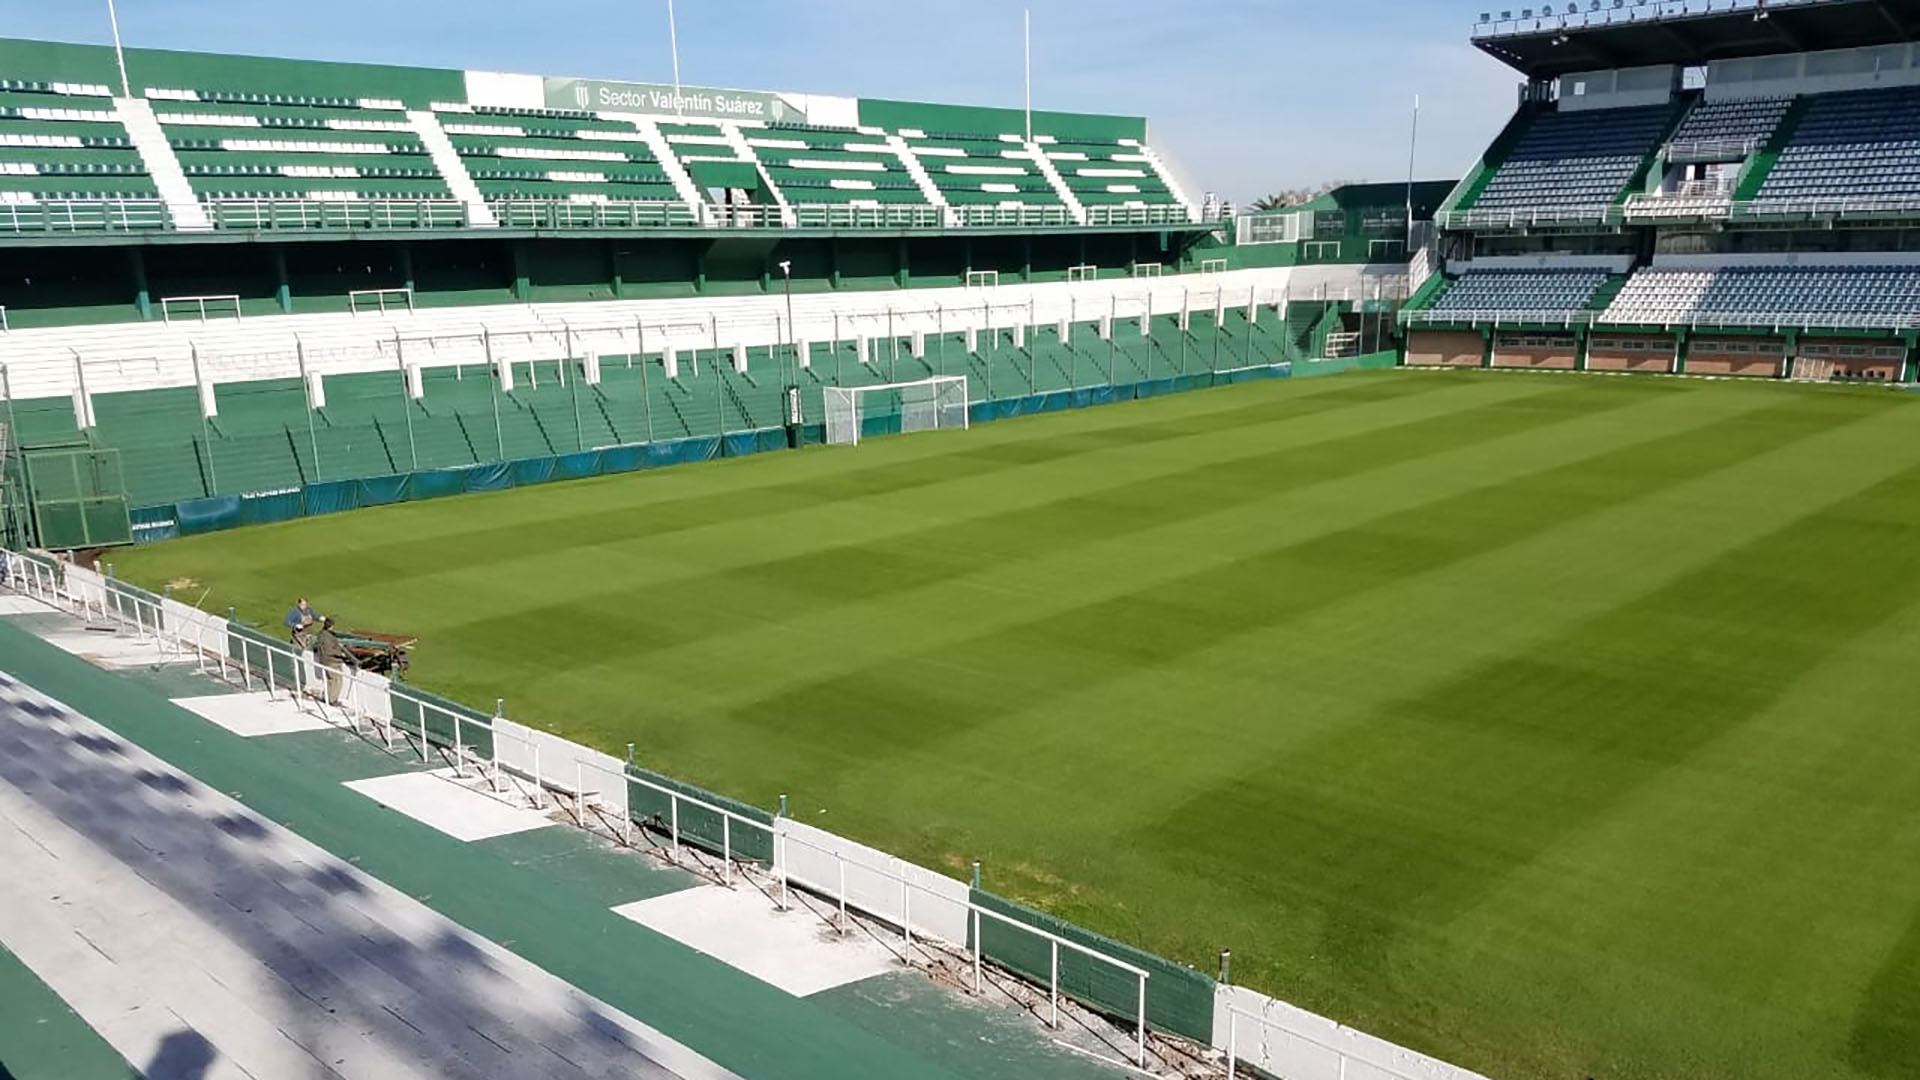
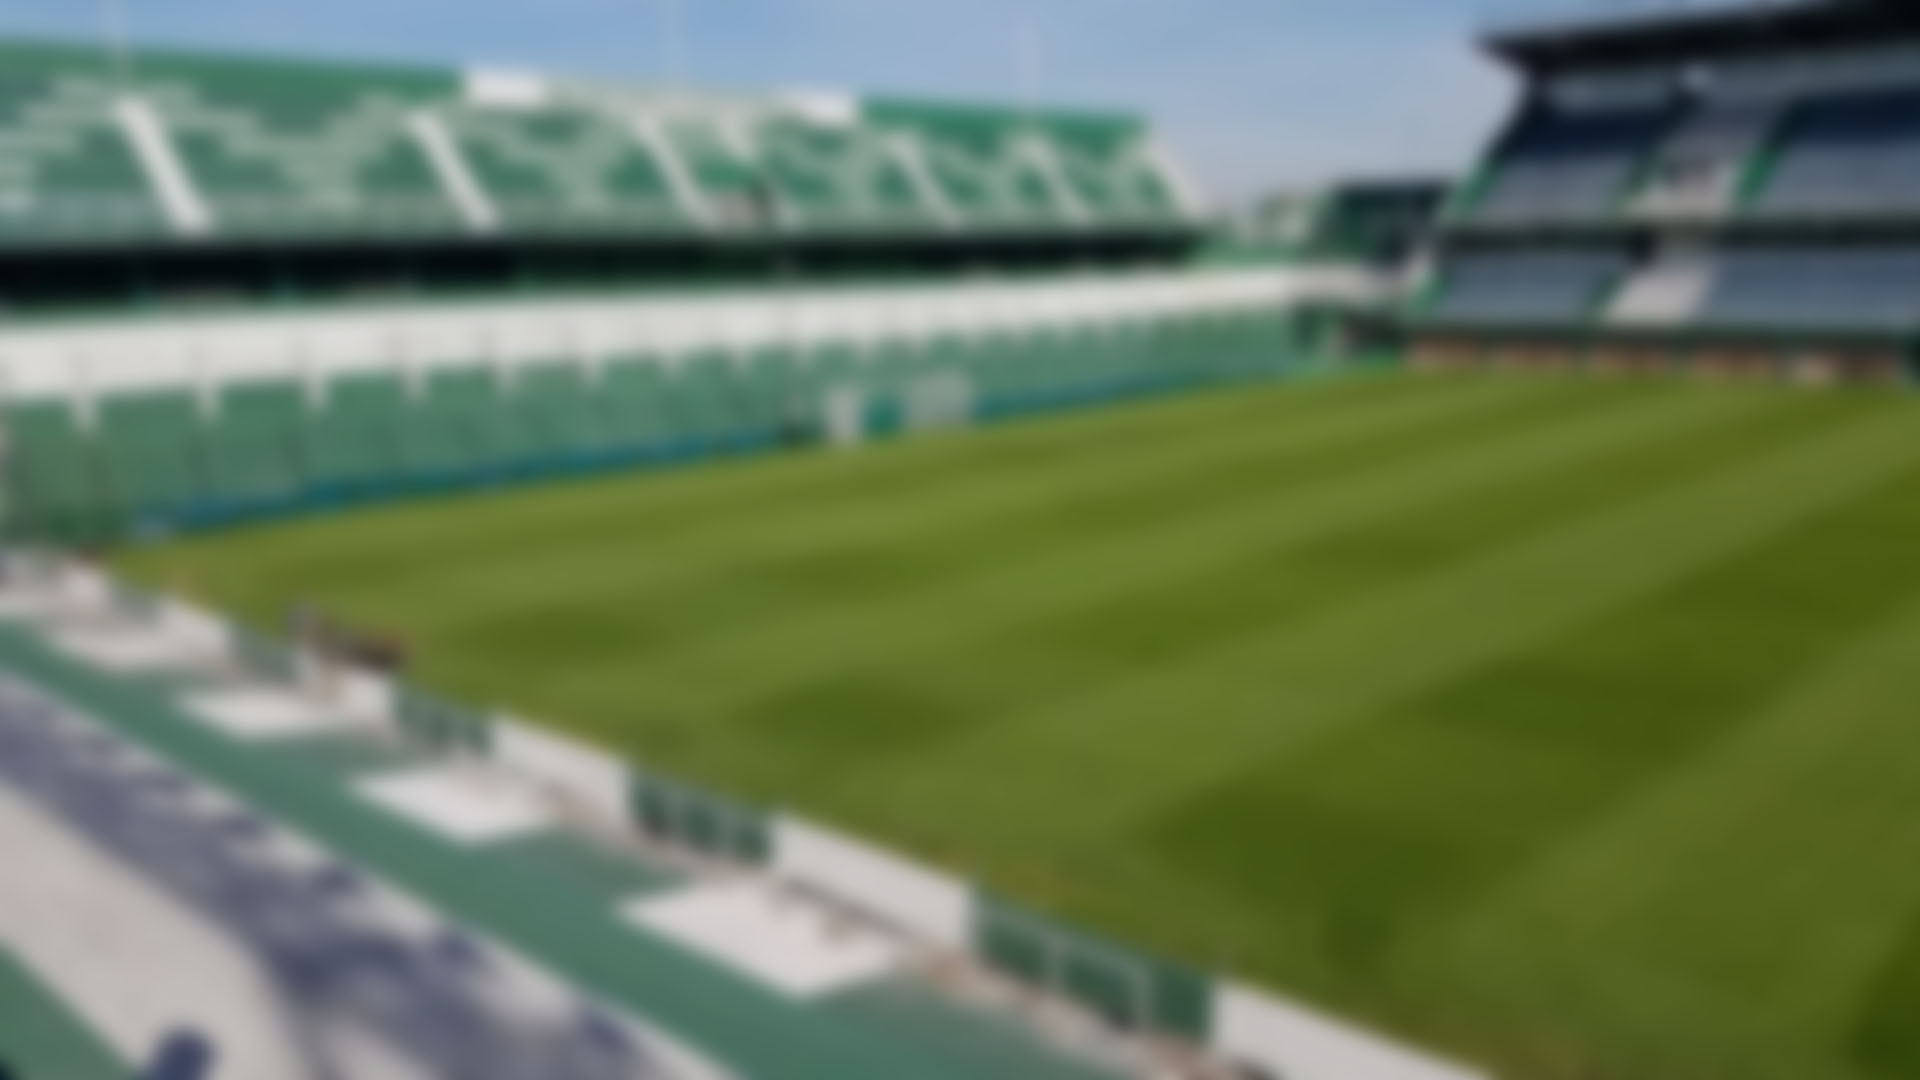
css changes and partido comp

diff --git a/src/components/Partido Component/PartidoComponent.js b/src/components/Partido Component/PartidoComponent.js
@@ -38,94 +38,11 @@ function PartidoComponent() {
   const { id } = useParams();
   const dbRef = ref(database, "partido/" + id); 
   const [data, setData] = useState("");
-  let hasUserCookies = false;
-  const cookie = getCookies(id);
-
-    useEffect(() => {
-      onValue(dbRef, (snapshot) => {
-        if (snapshot.exists()) {
-          setData(snapshot.val());
-        }
-      });
-    }, []);
-
-
-
-const unirsePartido = (event) => {
-  event.preventDefault();
-  const id = event.target[0].value;	
-  let hasUserCookies = false;
-  const cookies = getCookies(id);
-
-      // verificar si existe el partidocn esa ID
-      get(ref(database, `partido/${id}`)).then((snapshot) => {
-          if (snapshot.exists()) {
-              const data = snapshot.val();
-              console.log(data.id);
-              if (cookies && cookies.name === data.id){
-                  
-                  // por cada usuario en la data, chekear si coincide la cookie.value con el id del usuario
-                  for (const userId in data.usuarios) {
-                      const user = data.usuarios[userId];
-                      // buscar si el id de usuario en la db coincide con el valor de la cookie
-                      if (cookies && user.user_id === cookies.value) {
-                        console.log('El usuario posee cookies guardadas con username: ' + user.username);
-                          if (user.is_admin) {
-                              console.log('es admin: ' + user.is_admin);
-                          }
-                          hasUserCookies = true;    
-                          break;
-                      }
-                      else{
-                          hasUserCookies = false;
-                      }
-                  }
-              }
-
-              // el usuario no posee cookies guardadas 
-              if (!hasUserCookies){
-                  // si no coincide el valor de la cookie con un usuario en la db
-                  console.log('El usuario no existe ... abrir modal-box input de ingrese su nombre');
-                  const user_id = uid(8);
-                  update(ref(database, `partido/${id}/usuarios`), {
-                          [user_id]: {
-                          "user_id": user_id,
-                          "username": event.target[1].value,
-                          "color": "red",
-                          "positionX": 0,
-                          "positionY": 0
-                          }
-                  }).then(() => {
-                      console.log('Los datos se han actualizado correctamente');
-                      const partidoRef = ref(database, `partido/${id}`);
-                      get(partidoRef).then((snapshot) => {
-                          const partido = snapshot.val();
-                          console.log('Partido creado correctamente: ', partido);
-                          // crear cookie con id del  partido y usuario
-                          Cookies.set(id, user_id, { expires: 60 });
-                          // redirigir al PartidoComponent
-                          window.location.replace(partido.url);
-                      }).catch((error) => {
-                          console.error('Error al obtener los datos del partido: ', error);
-                      });
-                  }).catch((error) => {
-                      console.error('Error al escribir los datos: ', error);
-                  });
-              }
-
-          }
-          else {
-              console.log('No existe el partido, ID incorrecta');
-          }
-      }).catch((error) => {
-          console.log('Error al obtener los datos del partido: ', error);
-      });
+  const [hasUserCookies, setHasUserCookies] = useState(null);
   
-};
-
-
-
-
+  useEffect(() => {
+    
+    const cookie = getCookies(id);
     // obtener datos del usuario a partir de la cookie
     function get_user(){
       // verificar si existe el partidocn esa ID
@@ -139,20 +56,18 @@ const unirsePartido = (event) => {
             // buscar si el id de usuario en la db coincide con el valor de la cookie
             if (cookie && user.user_id === cookie.value) {
               console.log('El usuario posee cookies guardadas con username: ' + user.username);
-                if (user.is_admin) {
-                    console.log('es admin: ' + user.is_admin);
-                }
-                hasUserCookies = true;   
-                return true;
+              setHasUserCookies(true); 
+              console.log(hasUserCookies);
+              if (user.is_admin) {
+                console.log('es admin: ' + user.is_admin);
+              }
+              break;
             }
             else{
-                hasUserCookies = false;
+              setHasUserCookies(false); 
+              console.log('No existe el usuario');
             }
-        }
-        if (!hasUserCookies) {
-          console.log('no tienes cookies... modal-box ingrese su nombre');
-        }
-
+          }
         }
         else {
           console.log('No existe el partido, ID incorrecta');
@@ -164,42 +79,96 @@ const unirsePartido = (event) => {
       });
     }
 
+    get_user();
+
+    onValue(dbRef, (snapshot) => {
+      if (snapshot.exists()) {
+        setData(snapshot.val());
+      }
+      else{
+        console.log("No existe el partido");
+          window.location.replace("/");
+      }
+    });
+
+  }, [id]);
+
+
+
+
+const unirsePartido = (event) => {
+  event.preventDefault();
+
+    const user_id = uid(8);
+    update(ref(database, `partido/${id}/usuarios`), {
+            [user_id]: {
+            "user_id": user_id,
+            "username": event.target[0].value,
+            "color": "red",
+            "positionX": 0,
+            "positionY": 0
+            }
+    }).then(() => {
+        console.log('Los datos se han actualizado correctamente');
+        const partidoRef = ref(database, `partido/${id}`);
+        get(partidoRef).then((snapshot) => {
+            const partido = snapshot.val();
+            console.log('Partido creado correctamente: ', partido);
+            // crear cookie con id del  partido y usuario
+            Cookies.set(id, user_id, { expires: 60 });
+            // redirigir al PartidoComponent
+            window.location.replace(partido.url);
+        }).catch((error) => {
+            console.error('Error al obtener los datos del partido: ', error);
+        });
+    }).catch((error) => {
+        console.error('Error al escribir los datos: ', error);
+      });
+  }
+
+
+
     // si existe data con el id de la url
     if (data !== null && data !== ""){
-      get_user();
 
-      return (
-      <div>
-        <span>Id del partido: {data.id}</span>
-        <br/>
-        <span>Lugar: {data.lugar}</span>
-        <br/>
-        <span>Hora: {data.hora}</span>
-        <br/>
-        <span>Fecha: {data.fecha}</span>
-        <br/>
-        <span>Precio: {data.precio}</span>
-        <br/>
-        <span>Usuarios: </span>
-        <ul>
-          {data.usuarios && Object.keys(data.usuarios).map(function(key) {
-            const usuario = data.usuarios[key];
-            return <li key={usuario.user_id}>{usuario.username} - {usuario.user_id} - {usuario.is_admin ? 'admin' : 'user'} </li>;
-          })}
-        </ul>
-        
-      </div>
-
-      );
-    }
-
-    else{
-      
-      return (
+      if (hasUserCookies === true){
+        return (
         <div>
-          
+          <span>Id del partido: {data.id}</span>
+          <br/>
+          <span>Lugar: {data.lugar}</span>
+          <br/>
+          <span>Hora: {data.hora}</span>
+          <br/>
+          <span>Fecha: {data.fecha}</span>
+          <br/>
+          <span>Precio: {data.precio}</span>
+          <br/>
+          <span>Usuarios: </span>
+          <ul>
+            {data.usuarios && Object.keys(data.usuarios).map(function(key) {
+              const usuario = data.usuarios[key];
+              return <li key={usuario.user_id}>{usuario.username} - {usuario.user_id} - {usuario.is_admin ? 'admin' : 'user'} </li>;
+            })}
+          </ul>
         </div>
-      );
+  
+        );
+      }
+      else if (hasUserCookies === false){
+        return (
+          <div>
+            <form onSubmit={unirsePartido}>
+              <input type="text" placeholder="Nombre de usuario" />
+              <button type="submit">Unirse al partido</button>
+            </form>
+          </div>
+        );
+      }
+      
+    }
+    else{
+      return (<div>Cargando...</div>);
     }
 
 }

diff --git a/src/App.css b/src/App.css
@@ -1,59 +1,37 @@
 h1 {
-	background-color: #1c703d;
 	color: white;
 	margin: 0px;
 	padding-left: 30px;
-
 }
 
 header{
 	z-index: 999;
 	position: absolute;
 	width: 100%;
+	background-color: rgba(40, 135, 0, 0.873);
+	border-bottom: 4px solid rgb(215, 215, 215);
 }
 
 /* Establecer la imagen de fondo para el elemento body */
 .background{
-	background-image: url(./assets/img/banfiellld.jpeg);
+	background-image: url(./assets/img/staduim-bck.jpg);
 	background-repeat: no-repeat;
 	background-size: cover;
 	background-attachment: fixed;
 	display: flex;
 	justify-content: center;
-	min-height: 1200px;
+	min-height: 700px;
 	height: 100vh;
-
 }
-
-/* Aplicar un filtro de desenfoque y un filtro de brillo a la imagen de fondo */
-/* .background::before {
-	content: "";
-	position: absolute;
-	top: 0;
-	left: 0;
-	width: 100%;
-	height: 100%;
-	background: inherit;
-	filter: blur(2px) brightness(0.8);
-	-webkit-filter: blur(2px);
-	z-index: -1;
-  } */
-  
-  /*
-  main{
-	  background-color: rgba(255, 238, 0, 0.6);
-	backdrop-filter: blur(6px);
-	padding: 2%;
-	box-shadow: solid 0px 0px 12px;
-}
-*/
 
 
 .container{
-	background-color: rgba(255, 238, 0, 0.6);
+	background-color: rgba(40, 135, 0, 0.88);
 	max-width: 550px !important;
-	max-height: 1000px; 
-	margin-top: 150px;
+	max-height: 560px; 
+	margin-top: 130px;
+	border: 4px solid rgb(215, 215, 215);
+	border-radius: 4%;
 }
 
 .form-check-input[type=checkbox] {

diff --git a/src/components/Unirse Partido/UnirsePartido.js b/src/components/Unirse Partido/UnirsePartido.js
@@ -3,7 +3,7 @@ import firebaseConfig from '../../store/Firebase/firebaseConfig';
 
 // Import the functions you need from the SDKs you need
 import { initializeApp } from "firebase/app";
-import { getDatabase, ref, get, update } from "firebase/database";
+import { getDatabase, ref, get } from "firebase/database";
 // Initialize Firebase
 const app = initializeApp(firebaseConfig);
 const database = getDatabase(app);
@@ -37,7 +37,7 @@ function UnirsePartido(){
 
             <form className='formulario m-auto  text-center' onSubmit={unirsePartido}>
             
-            <label className='h4 text-start' htmlFor='id_partido'>Id partido:</label>
+            <label className='h4 text-start text-light' htmlFor='id_partido'>Id partido:</label>
             <br/>
             <input type='text' id='id_partido' placeholder='Escribir aquí' name='id_partido' className='form-control-lg mb-3 '/>
 

diff --git a/src/App.js b/src/App.js
@@ -14,7 +14,13 @@ function App() {
         <Router>
         		<Routes>
 					<Route path="/" element={
-						<div className='container rounded p-5' style={{backgroundColor: 'rgba(25,25,25,0.2)'}}>
+							  
+						<div className="background">
+						<header>
+						<h1 className='p-3 m-0'> PeloTurno
+						</h1>
+					</header>
+						<div className='container p-5 p-relative '>
 							<CrearPartido/>
 							<br/>
 							<br/>
@@ -22,6 +28,7 @@ function App() {
 							<br/>
 							<br/>
 							<UnirsePartido/>
+						</div>
 						</div>
 					} />
 

diff --git a/src/components/Crear Partido/CrearPartido.js b/src/components/Crear Partido/CrearPartido.js
@@ -63,7 +63,7 @@ function CrearPartido() {
 
         <form className='formulario m-auto text-center' onSubmit={writeToDatabase}>
         
-        <label className='h4 text-start' htmlFor='username'>Tu nombre:</label>
+        <label className='h4 text-start text-light' htmlFor='username'>Tu nombre:</label>
         <br/>
         <input type='text' id='username' placeholder='Escribir aquí' name='username' className='form-control-lg mb-3'/>
 
